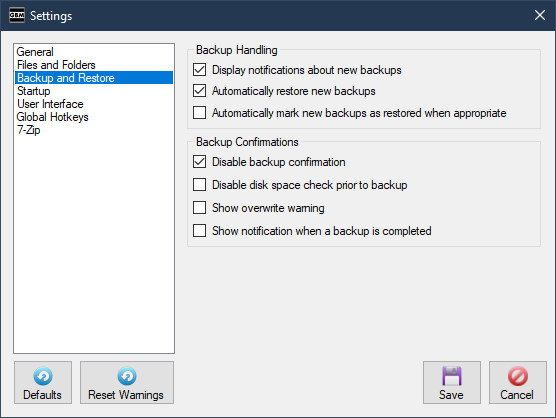
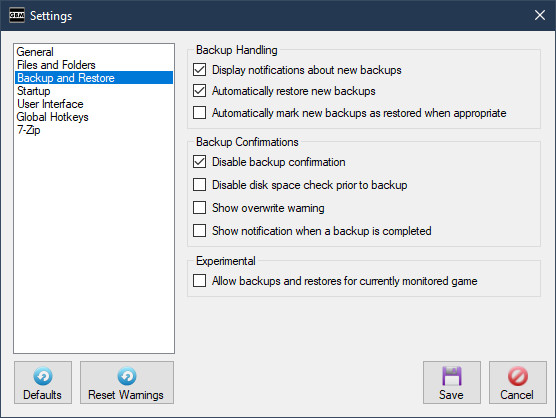
Updates for v136

Changed region(s): [[0.3363, 0.5909, 0.8561, 0.6842]]

diff --git a/manual.html b/manual.html
@@ -64,6 +64,7 @@
                 </ol>
               </li>
               <li><a href="#limitations">Limitations</a></li>
+              <li><a href="#livebackup">Backup and Restore during Gameplay</a></li>
               <li><a href="#differential">Differential Backups</a></li>
               <li><a href="#registry">Windows Registry Backups</a></li>
               <li><a href="#fullbackuprestore">Full Backup and Restore</a></li>
@@ -253,6 +254,10 @@
             <h4>Show notification when a backup is completed:</h4>
             <p>This enables showing a notification any time a backup operation is completed.</p>
             <p>This always displays a single notification, even if the operation included multiple backups.</p>
+            <h4>Allow backups and restores for currently monitored game:</h4>
+            <p>This enables backup and restore operations for the currently monitored game.</p>
+            <p><b>Manipulating saved games while a game is running can be unsafe.</b></p>
+            <p>Please read the <a href="#livebackup">Backup and Restore during Gameplay</a> section of the manual.</p>
             <h3><a name="settings_startup" id="settings_startup">Startup</a></h3>
             <img class="manual" src="images/manual/manual_23.jpg" width="556" height="418" alt="Settings" />
             <h4>Start automatically on log-in:</h4>
@@ -288,7 +293,7 @@
             <ul>
               <li>Global Hotkeys allow you to trigger functions in GBM during a game or while working in another application.
               <ul>
-                <li>Please read the <a href="#limitations">Limitations</a> section before enabling this feature.</li>
+                <li>Read the <a href="#livebackup">Backup and Restore during Gameplay</a> section for more details.</li>
               </ul>
               </li>
               <li>Functions triggered by a Global Hotkey will play a unique sound when the operation is completed or if it fails.</li>
@@ -563,8 +568,22 @@
               <li>If multiple games are running, detection is based on what game appeared first in the process list.</li>
               <li>Most application functions are locked while a game is being monitored.</li>
             </ul>
-            <p>As of v1.3.6, GBM allows you to make or restore backups while a game is being monitored.</p>
-            <P>This is useful for quickly save scumming without needing to cancel monitoring in GBM.</P>
+          </div>
+          <div class="pageSectionFooter">
+            <a href="#toc">Back to Contents</a>
+          </div>
+        </div>
+        <div class="pageSection">
+          <div class="pageSectionHeader">
+            <a name="livebackup" id="livebackup">Backup and Restore during Gameplay</a>
+          </div>
+          <div class="pageSectionContent">           
+            <p>As of v1.3.6, GBM allows you to create or restore backups for the currently monitored game.</p>
+            <p>This is useful for save scumming in various games without needing to cancel monitoring in GBM.</p>
+            <p>This feature is turned off by default and must be enabled in the <a href="#settings_backupandrestore">Backup and Restore</a> section of <a href="#settings">Settings</a>.</p>            
+            <h4>Disclaimer:</h4>
+            <p>Manipulating saved games while a game is running can be dangerous, it may lead to saved game corruption or crash.</p> 
+            <h4>Options:</h4>
             <p>There are multiple ways to trigger a backup or restore while a game is being monitored.</p>
             <img class="manual" src="images/manual/manual_43.jpg" width="736" height="443" alt="Save Scumming" />
             <ul>
@@ -573,12 +592,10 @@
             </ul>
             <h4>Recommendations:</h4>
             <ul>
-              <li>It is safest to make backups or restore saved games while in a game's main menu.</li>
+              <li>Always use the "Save multiple backups" configuration setting, just in case you run into problems.</li>
+              <li>It is safest to make backups or restore saved games while in a game's initial main menu, not the pause menu.</li>
               <li>Never make backups or restore saved games during gameplay, especially if the game uses an autosave system.</li>                
             </ul>
-            <h4>Disclaimer:</h4>
-            <p>Manipulating saved games while a game is running can be dangerous, it can lead to saved game corruption or a crash.</p> 
-            <p><b>Not all games will support this feature.</b></p>
           </div>
           <div class="pageSectionFooter">
             <a href="#toc">Back to Contents</a>
